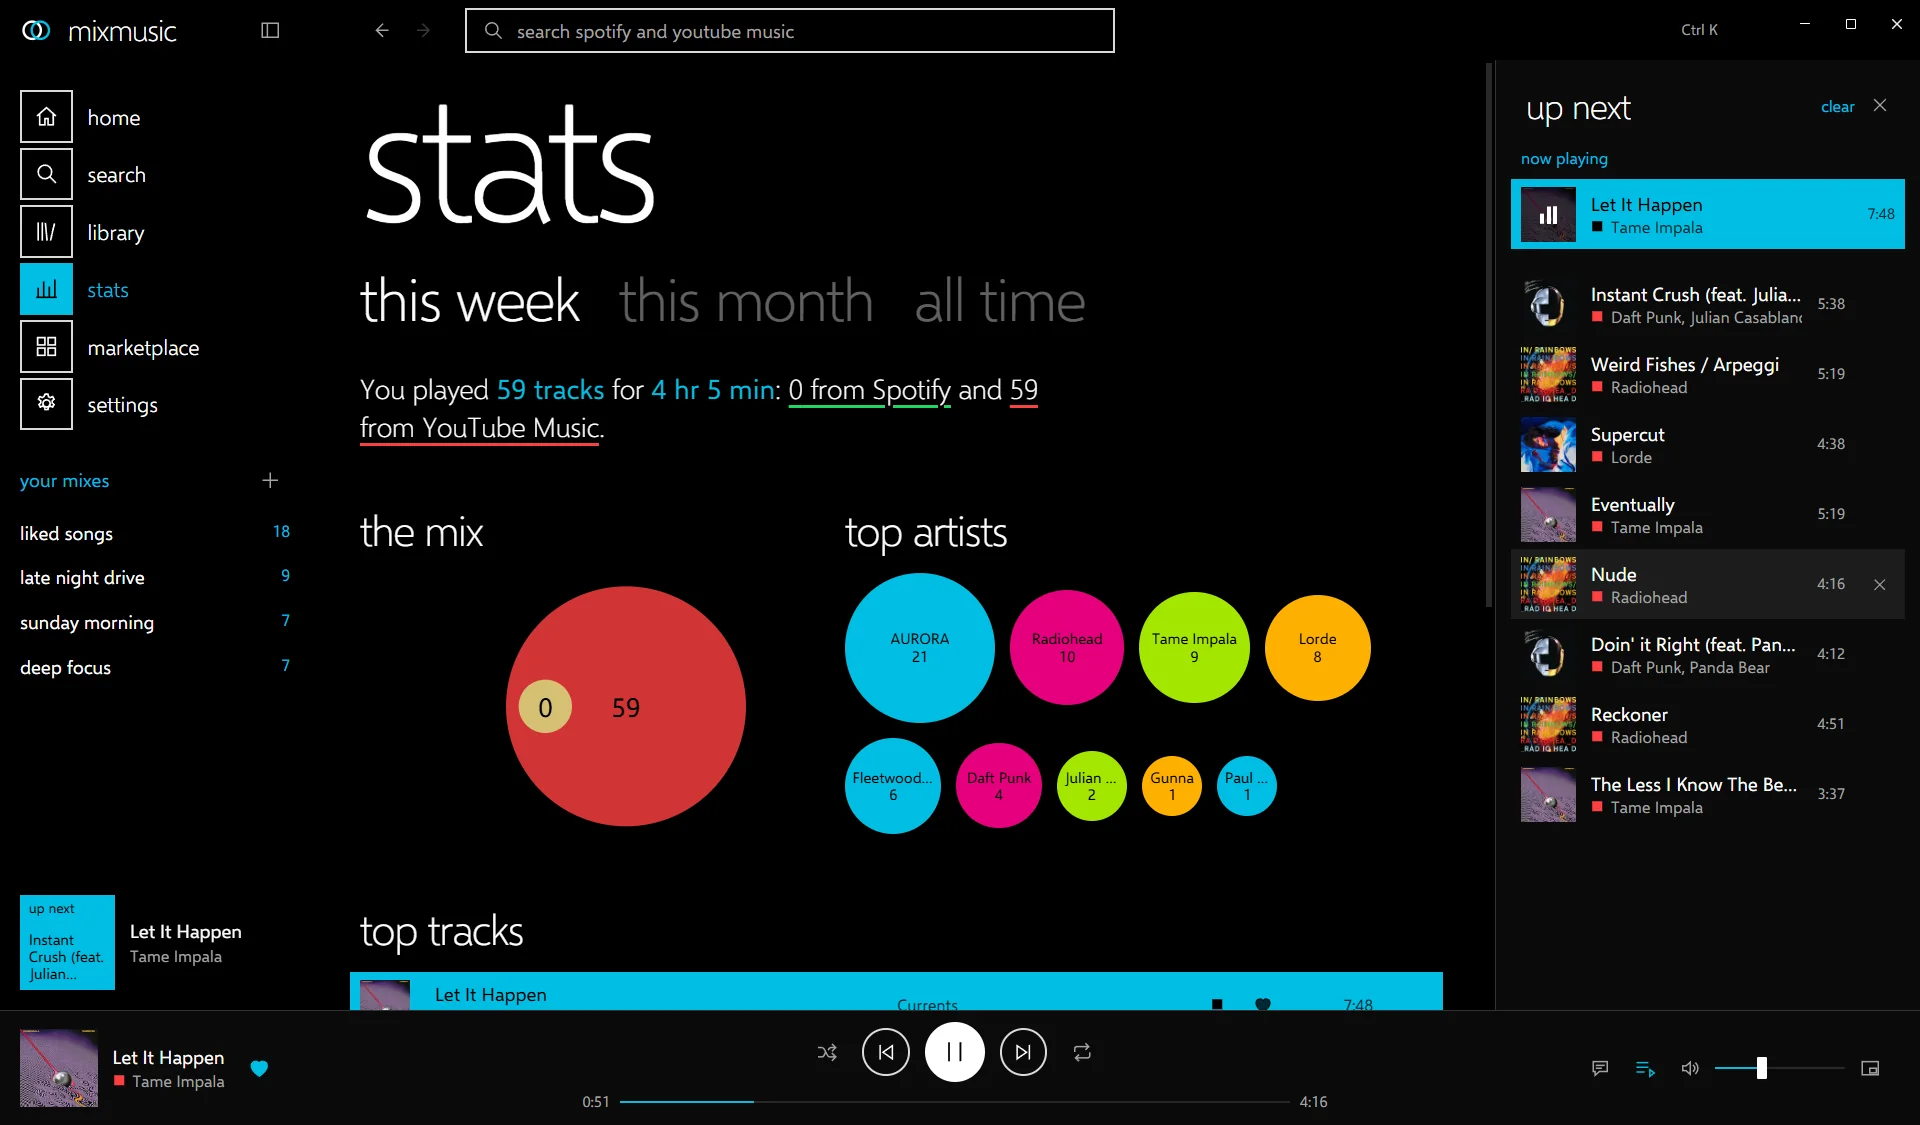
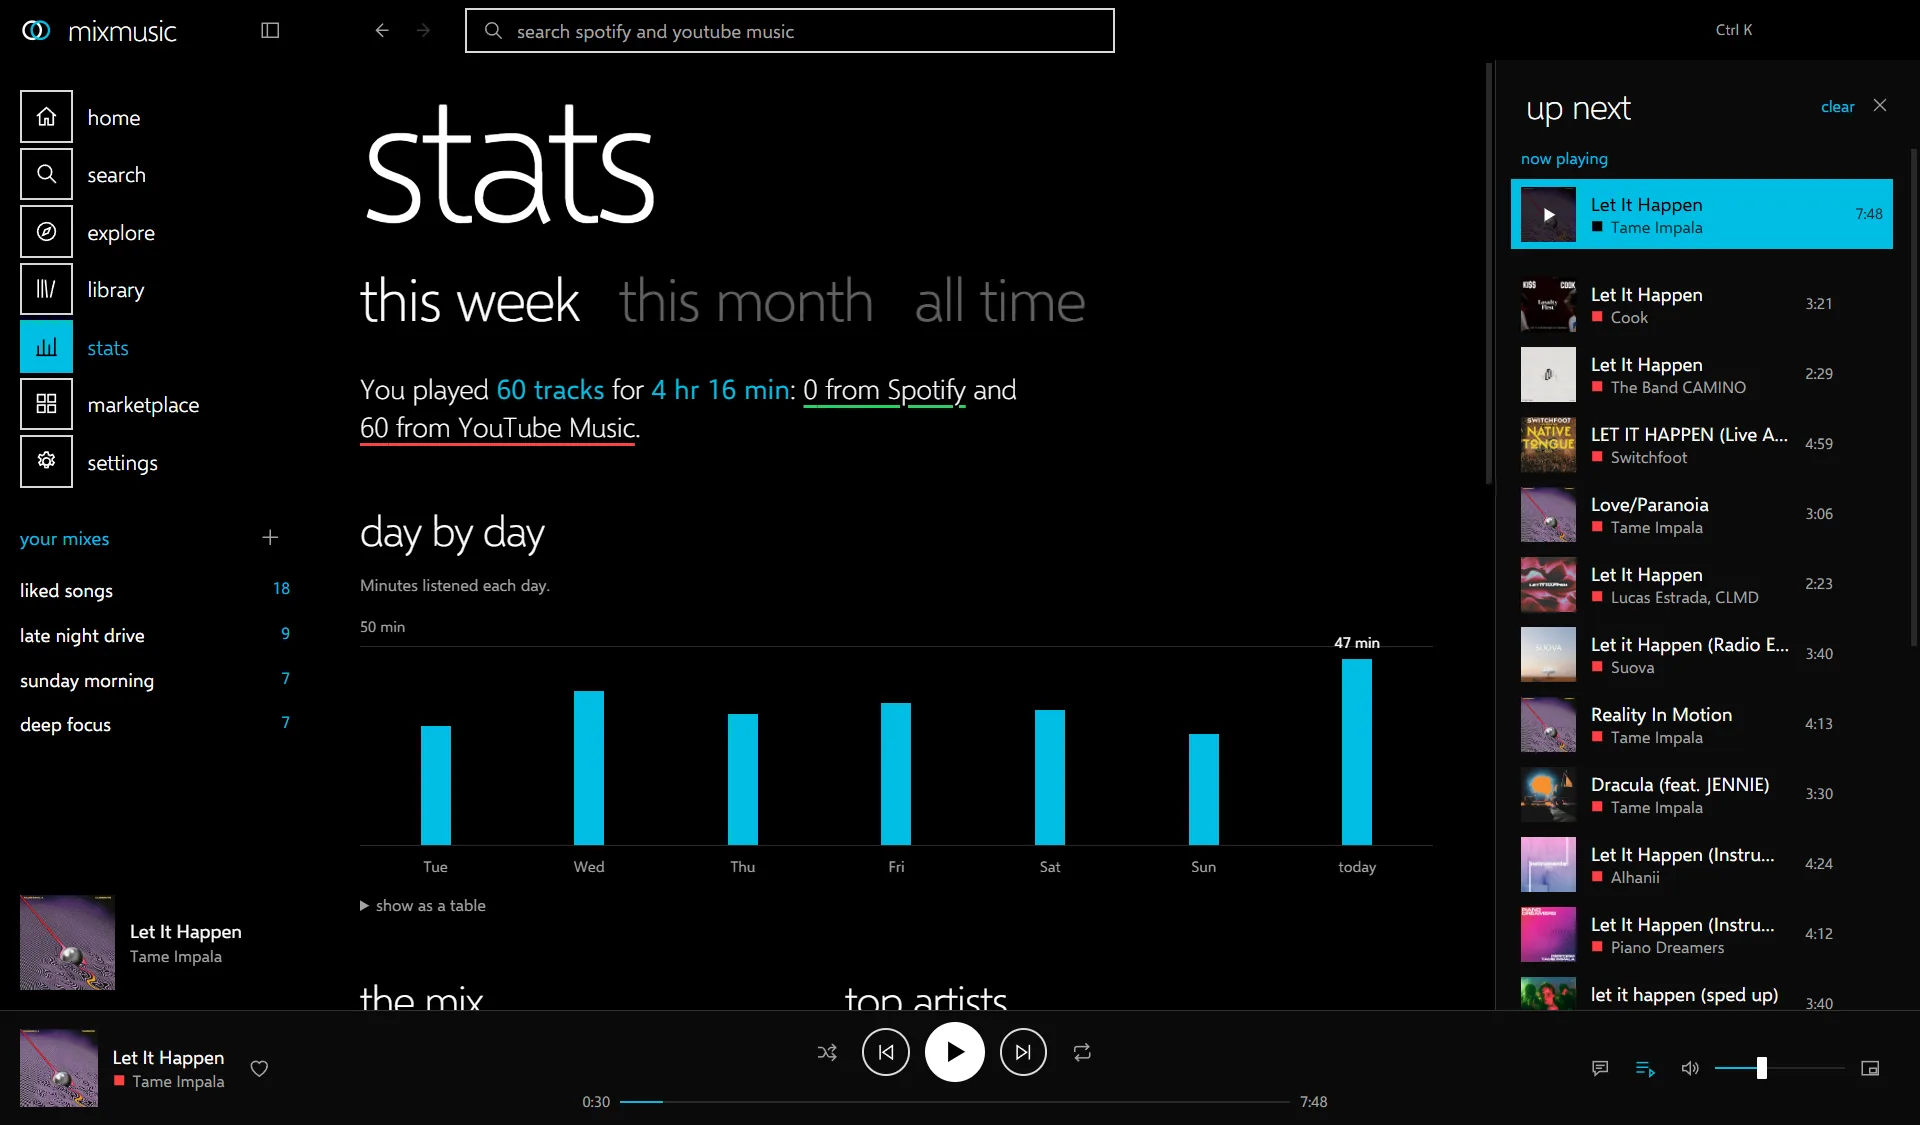
docs(site): show Explore, the accounts and what the next release brings
Two new sections play in the page's queue: explore, with new releases, the
charts, moods and genres and related songs, and your accounts, with
YouTube Music, Spotify, Last.fm and Discord. The library, lyrics, keyboard
and themes sections name searching inside playlists, the daily stats
chart, plain lyrics, keys of your own, updates and themes for light and
dark mode.

Everything the latest release lacks carries a "next release" mark, and the
page drops the marks once GitHub's latest release is newer than 0.1.0. The
new screenshots come from capture mode at 125% zoom, with their
provenance beside them. On short windows the up next rows drop their
captions so all of them stay in view.

diff --git a/site/index.html b/site/index.html
@@ -42,6 +42,14 @@
     <symbol id="i-check" viewBox="0 0 24 24"><path d="M4.5 12.5 9.5 17.5 19.5 6.5" /></symbol>
     <symbol id="i-shield" viewBox="0 0 24 24"><path d="M12 3.5 19.5 6.5v5.5c0 4.4-3.2 7.7-7.5 9-4.3-1.3-7.5-4.6-7.5-9V6.5zM8.8 12.2l2.3 2.3 4.3-4.6" /></symbol>
     <symbol id="i-terminal" viewBox="0 0 24 24"><path d="M3.5 5h17v14h-17zM7 9.5l3 2.5-3 2.5M12 15h5" /></symbol>
+    <symbol id="i-compass" viewBox="0 0 24 24"><path d="M12 20.5a8.5 8.5 0 1 0 0-17 8.5 8.5 0 0 0 0 17ZM15.5 8.5l-2 5-5 2 2-5z" /></symbol>
+    <symbol id="i-account" viewBox="0 0 24 24"><path d="M12 11.5a3.75 3.75 0 1 0 0-7.5 3.75 3.75 0 0 0 0 7.5ZM4.5 20.5c.9-3.6 3.9-5.8 7.5-5.8s6.6 2.2 7.5 5.8" /></symbol>
+    <symbol id="i-disc" viewBox="0 0 24 24"><path d="M12 20.5a8.5 8.5 0 1 0 0-17 8.5 8.5 0 0 0 0 17ZM12 14a2 2 0 1 0 0-4 2 2 0 0 0 0 4Z" /></symbol>
+    <symbol id="i-chart" viewBox="0 0 24 24"><path d="M3.5 20.5h17M6.5 17v-5M10.5 17V6.5M14.5 17v-8M18.5 17v-3.5" /></symbol>
+    <symbol id="i-grid" viewBox="0 0 24 24"><path d="M4 4h7v7H4zM13 4h7v7h-7zM4 13h7v7H4zM13 13h7v7h-7z" /></symbol>
+    <symbol id="i-related" viewBox="0 0 24 24"><path d="M6.5 14.5a2.5 2.5 0 1 0 0-5 2.5 2.5 0 0 0 0 5ZM17.5 8a2.5 2.5 0 1 0 0-5 2.5 2.5 0 0 0 0 5ZM17.5 21a2.5 2.5 0 1 0 0-5 2.5 2.5 0 0 0 0 5ZM8.7 10.8l6.6-3.6M8.7 13.2l6.6 3.6" /></symbol>
+    <symbol id="i-pulse" viewBox="0 0 24 24"><path d="M2.5 12h4l2.5-6.5 4 13 3-8.5 1.5 2h4" /></symbol>
+    <symbol id="i-status" viewBox="0 0 24 24"><path d="M3.5 5h17v14h-17zM8 11.5a2 2 0 1 0 0-4 2 2 0 0 0 0 4ZM5.5 16c.5-1.5 1.5-2.2 2.5-2.2s2 .7 2.5 2.2M13 9.5h4.5M13 13h3" /></symbol>
   </svg>
 
   <header class="top">
@@ -154,11 +162,61 @@
             <figcaption>A mix you named, ordered your way.</figcaption>
           </figure>
           <figure class="shot mosaic-c">
-            <img src="assets/shots/stats.webp" width="1920" height="1125" loading="lazy" alt="The stats page for this week: tracks played and time listened, a circle for each service, and top artists drawn as circles sized by plays." />
-            <figcaption>What you listened to, by service and artist.</figcaption>
+            <img src="assets/shots/stats.webp" width="1920" height="1125" loading="lazy" alt="The stats page for this week: 60 tracks for 4 hours 16 minutes, all from YouTube Music, and a day by day chart of cyan bars for the minutes listened from Tuesday to today, 47 minutes today." />
+            <figcaption>Your week in minutes, day by day, with a table view too. <span class="soon" data-soon>next release</span></figcaption>
           </figure>
         </div>
-        <p class="note">Import a Spotify or YouTube Music playlist into a mix and keep adding to it from either service. The screenshots show a demo library.</p>
+        <p class="note">Import a Spotify or YouTube Music playlist into a mix and keep adding to it from either service. Search inside a playlist, a mix or your liked songs, and sort them by title, artist or length. <span class="soon" data-soon>next release</span> The screenshots show a demo library.</p>
+      </section>
+
+      <!-- explore -->
+      <section class="track" id="explore" data-track="explore" data-caption="new, charts, moods" data-tone="4" data-icon="compass">
+        <div class="word-frame"><h2 class="word">explore</h2></div>
+        <p class="pivots pivots-section" aria-label="In this section: new, charts, moods and genres, related"><span class="pivot is-current">new</span><span class="pivot">charts</span><span class="pivot">moods &amp; genres</span><span class="pivot">related</span></p>
+        <div class="split">
+          <div class="copy">
+            <p class="lead">Somewhere to find what you have not heard yet.</p>
+            <p class="soon-line" data-soon><span class="soon">new in the next release</span></p>
+            <ul class="rows">
+              <li><span class="box" aria-hidden="true"><svg width="20" height="20"><use href="#i-disc" /></svg></span><div><strong>New albums and singles</strong><span>What came out lately, and the songs trending now.</span></div></li>
+              <li><span class="box" aria-hidden="true"><svg width="20" height="20"><use href="#i-chart" /></svg></span><div><strong>The charts</strong><span>The top videos and artists of your country.</span></div></li>
+              <li><span class="box" aria-hidden="true"><svg width="20" height="20"><use href="#i-grid" /></svg></span><div><strong>Moods and genres</strong><span>Chill, focus, workout and dozens more, each a tile that opens its playlists.</span></div></li>
+              <li><span class="box" aria-hidden="true"><svg width="20" height="20"><use href="#i-related" /></svg></span><div><strong>Related</strong><span>Under now playing: songs, playlists and artists like what you hear.</span></div></li>
+            </ul>
+            <p class="note">Explore comes from YouTube Music, so it needs no account.</p>
+          </div>
+          <figure class="shot">
+            <img src="assets/shots/explore.webp" width="1920" height="1125" loading="lazy" alt="The explore page on moods and genres: the pivots new, charts and moods and genres, and flat cyan, magenta, lime and amber tiles for chill, commute, energize, feel good, focus, gaming, party, romance, sad, sleep and workout." />
+            <figcaption>Moods and genres, each tile a door to its playlists.</figcaption>
+          </figure>
+        </div>
+        <figure class="shot shot-wide">
+          <img src="assets/shots/related.webp" width="1920" height="1125" loading="lazy" alt="The foot of the now playing page for Let It Happen by Tame Impala: a shelf of similar artists, MGMT, Foster The People, Midnight Juggernauts, Men I Trust and The Strokes, and a shelf of Tame Impala albums from Deadbeat to InnerSpeaker." />
+          <figcaption>Related, at the foot of now playing: artists like this one, and the rest of its albums.</figcaption>
+        </figure>
+      </section>
+
+      <!-- accounts -->
+      <section class="track" id="accounts" data-track="your accounts" data-caption="your feed and library, in sync" data-tone="2" data-icon="account">
+        <div class="word-frame"><h2 class="word">accounts</h2></div>
+        <p class="pivots pivots-section" aria-label="In this section: youtube music, spotify, last.fm, discord"><span class="pivot is-current">youtube music</span><span class="pivot">spotify</span><span class="pivot">last.fm</span><span class="pivot">discord</span></p>
+        <div class="split split-flip">
+          <figure class="shot">
+            <img src="assets/shots/accounts.webp" width="1920" height="1125" loading="lazy" alt="Settings, accounts: the youtube music group with its sign in to youtube music button and a note that MixMusic never sees your password, and the last.fm group with three steps and fields for the API key and the shared secret." />
+            <figcaption>Settings › Accounts, where you sign in to YouTube Music and connect Last.fm.</figcaption>
+          </figure>
+          <div class="copy">
+            <p class="lead">Sign in, and your own music comes along.</p>
+            <p class="soon-line" data-soon><span class="soon">YouTube Music, Last.fm and Discord: new in the next release</span></p>
+            <ul class="rows">
+              <li><span class="box" aria-hidden="true"><span class="mark mark-youtube mark-big"></span></span><div><strong>YouTube Music</strong><span>Your home feed, your liked songs, playlists, albums and artists, and the audio quality of your account. You sign in on Google's own page, so MixMusic never sees your password.</span></div></li>
+              <li><span class="box" aria-hidden="true"><span class="mark mark-spotify mark-big"></span></span><div><strong>Spotify</strong><span>Your library there, once you sign in with an app of your own from Spotify's developer dashboard.</span></div></li>
+              <li><span class="box" aria-hidden="true"><svg width="20" height="20"><use href="#i-pulse" /></svg></span><div><strong>Last.fm</strong><span>Every track you hear joins your profile, and plays made offline go out once you are back. It takes an API account of your own from Last.fm.</span></div></li>
+              <li><span class="box" aria-hidden="true"><svg width="20" height="20"><use href="#i-status" /></svg></span><div><strong>Discord</strong><span>Your profile shows what plays, with its artwork and the time left, under an application you make in Discord's developer portal.</span></div></li>
+            </ul>
+            <p class="note">Like a song, save an album or a playlist, or follow an artist, and it reaches YouTube Music or Spotify too. <span class="soon" data-soon>next release</span></p>
+          </div>
+        </div>
       </section>
 
       <!-- lyrics & sound -->
@@ -168,7 +226,7 @@
         <div class="split">
           <div class="copy">
             <p class="lead">Lyrics that follow the song, and a sound you tune.</p>
-            <p>Synced lyrics from LRCLIB and YouTube Music light up line by line on the now playing page, or beside whatever page you are on.</p>
+            <p>Synced lyrics from LRCLIB and YouTube Music light up line by line on the now playing page, or beside whatever page you are on. To read them whole, show them as plain text. <span class="soon" data-soon>next release</span></p>
           </div>
           <figure class="shot">
             <img src="assets/shots/nowplaying.webp" width="1920" height="1125" loading="lazy" alt="The now playing page for Instant Crush by Daft Punk and Julian Casablancas: the album sleeve with a visualizer, the current lyric lines, and the lyrics panel on the right." />
@@ -202,7 +260,8 @@
               <div><dt><kbd data-mod>Ctrl</kbd><kbd>J</kbd></dt><dd>show the queue</dd></div>
               <div><dt><kbd data-mod>Ctrl</kbd><kbd>M</kbd></dt><dd>mini player</dd></div>
             </dl>
-            <p>The tray, media keys, desktop notifications, a mini player, start at login and <code>mixmusic://</code> links do the everyday work while the window stays closed.</p>
+            <p>Every key is yours to change in Settings › Shortcuts, plugins' commands too. <span class="soon" data-soon>next release</span></p>
+            <p>The tray, media keys, desktop notifications, a mini player, start at login and <code>mixmusic://</code> links do the everyday work while the window stays closed. MixMusic looks for a new version once a day, checks its signature, and installs it when you agree, or by itself if you choose. <span class="soon" data-soon>next release</span></p>
           </div>
         </div>
       </section>
@@ -252,6 +311,8 @@
             </button>
           </div>
         </div>
+
+        <p class="note">Follow the computer: choose a theme for its light mode and one for its dark mode, and MixMusic switches with it. <span class="soon" data-soon>next release</span></p>
 
         <div class="split split-code">
           <div class="copy">
@@ -430,7 +491,7 @@
           </a>
         </div>
         <div class="fine">
-          <p>MixMusic is free software under the <a href="https://github.com/fzn0x/mixmusic/blob/main/LICENSE">MIT license</a>, made by MixMusic contributors. The screenshots show MixMusic 0.1.0 on Windows with a demo library.</p>
+          <p>MixMusic is free software under the <a href="https://github.com/fzn0x/mixmusic/blob/main/LICENSE">MIT license</a>, made by MixMusic contributors. The screenshots show MixMusic on Windows with a demo library<span data-soon>: version 0.1.0, and the next release where marked</span>.</p>
           <p>Spotify is a trademark of Spotify AB, and YouTube Music a trademark of Google LLC. MixMusic is not affiliated with, endorsed by or sponsored by either.</p>
         </div>
       </footer>

diff --git a/site/styles.css b/site/styles.css
@@ -274,6 +274,24 @@ a.pivot:hover { color: color-mix(in srgb, var(--ink) 70%, transparent); }
 .note { margin-top: 28px; max-width: 70ch; color: var(--muted); font-size: 0.9375rem; }
 .copy .note { margin-top: 4px; }
 
+/* What the next release brings, in the registry chip's outline, so the
+   accent stays with what is current; app.js takes the marks away once that
+   release is out. */
+.soon {
+  display: inline-block;
+  padding: 1px 8px 2px;
+  color: var(--ink);
+  font-size: 0.75rem;
+  line-height: 1.45;
+  white-space: nowrap;
+  vertical-align: 0.08em;
+  box-shadow: inset 0 0 0 1px var(--outline);
+}
+.copy > .soon-line { margin-top: -6px; }
+.soon-line .soon { font-size: 0.8125rem; white-space: normal; }
+
+.shot-wide { margin-top: clamp(28px, 3vw, 44px); }
+
 .sub {
   font-size: clamp(1.75rem, 2.2vw, 2.125rem);
   line-height: 1.1;
@@ -591,6 +609,14 @@ kbd {
   .upnext-list .tile-thumb svg { width: 18px; height: 18px; }
   .upnext-list strong { font-size: 0.9375rem; }
   .upnext-list small { font-size: 0.75rem; }
+}
+/* Shorter still: the rows drop their captions, so every one stays in view. */
+@media (max-height: 780px) {
+  .upnext { padding-top: 14px; }
+  .upnext-list a { grid-template-columns: 28px minmax(0, 1fr); align-items: center; }
+  .upnext-list .tile-thumb { width: 28px; height: 28px; }
+  .upnext-list .tile-thumb svg { width: 16px; height: 16px; }
+  .upnext-list small { display: none; }
 }
 
 .tile-thumb { display: grid; place-items: center; flex: none; }

diff --git a/site/app.js b/site/app.js
@@ -292,6 +292,9 @@
       const rel = await res.json();
       const version = String(rel.tag_name || "").replace(/^v/, "");
       if (!version) return;
+      // The page was built with the release in data-version; a newer one
+      // carries what the page marks as the next release.
+      if (version !== $("[data-version]").textContent.trim()) $$("[data-soon]").forEach((el) => el.remove());
       for (const file of $$(".dl-file[data-asset]")) {
         const suffix = file.dataset.asset;
         const found = (rel.assets || []).find((x) => x.name === suffix || x.name.endsWith(`-${suffix}`));

diff --git a/.impeccable/surfaces/site-index-html.md b/.impeccable/surfaces/site-index-html.md
@@ -17,7 +17,7 @@ THESIS: The landing page plays MixMusic like its own queue: the hero is now play
 
 OWN-WORLD: MixMusic's tile wall, inherited: true black ground, white Selawik at weight 300 for every large word, lowercase page words cropped by the edge, flat cyan, magenta, lime and amber tiles in black ink with dot-matrix print inside them only, one live cyan accent flooding what is current (the playing row, the download), 2px white outlines for secondary buttons, square corners, source marks (disc for Spotify, square for YouTube Music), panel black for the queue column and the player bar.
 
-STORY: The visitor sees the player itself at work and reads in one line what it is: Spotify and YouTube Music in one free, open-source desktop player. They download from the player bar, or play down the queue: one search, one queue, one library, lyrics and sound, at the keyboard (palette, shortcuts, tray, mini player), themes, plugins and the registry, built in the open, each opening onto real screenshots. They leave with the installer, and knowing MIT, GitHub, and that a theme or plugin is one pull request away.
+STORY: The visitor sees the player itself at work and reads in one line what it is: Spotify and YouTube Music in one free, open-source desktop player. They download from the player bar, or play down the queue: one search, one queue, one library, explore (new, charts, moods and genres, related), your accounts (YouTube Music, Spotify, Last.fm, Discord), lyrics and sound, at the keyboard (palette, shortcuts, tray, mini player), themes, plugins and the registry, built in the open, each opening onto real screenshots. They leave with the installer, and knowing MIT, GitHub, and that a theme or plugin is one pull request away.
 
 FIRST VIEWPORT: at 1440 by 900, a 48px top bar (rings mark and "mixmusic", links to features, themes, plugins and docs, a GitHub outline button). The main column (about 70%) opens on a giant cropped lowercase "mixmusic" running past its edge, pivots peeking under it (one search, one queue, one library), and the real app screenshot large beneath as the now playing artwork. The right column, in panel black, is "up next": the first row floods cyan as now playing, then one queue row per section. A sticky 92px player bar runs along the bottom: the section in view as the track, a 2px accent progress line, and the primary action, a cyan "download for <your system>" block with an "other systems" outline beside it.
 

diff --git a/DESIGN.md b/DESIGN.md
@@ -449,6 +449,7 @@ The landing page in `site/` is the player playing its own story. These patterns 
 - **Download tiles:** flat tiles in the four tones, 300px tall: the lowercase system name as the tile title, a small caption, then one row per file (download icon, name, size) on 30% tile-ink rules. They carry no printed texture, so the file rows stay legible. The visitor's own system gets a small "for your system" tag in tile ink on the tile's tone.
 - **Theme gallery:** a large screenshot that crossfades (260ms) to the chosen theme, over a four-column row of theme cards. Each card is filled with its theme's own ground and ink, with a 1px hairline, four 22px swatches and the theme name at 1.5rem, weight 300; the current card wears the 3px accent outline offset 2px. A theme that sets its own face shows its name in that face, as a specimen of the theme, not as a face of the site.
 - **Screenshots:** real captures, full width of their column on panel black with a 1px hairline, captioned in small muted type.
+- **Next release mark:** what main has and the latest release lacks carries a small chip reading "next release", in the registry chip's 1px outline and ink, after the sentence or caption it qualifies (a whole new section says it once, under its lead). The page drops every mark when GitHub's latest release is newer than the version it was built with.
 
 ### Motion
 Ease-out `cubic-bezier(0.16, 1, 0.3, 1)` with 120, 260 and 520ms steps; ease-in-out for loops. Pages enter as a turnstile: each child slides 44px in from the right, the title first and the rest 50 to 120ms behind. All durations become 0 under reduced motion, and the live tile and the equaliser bars stop.
